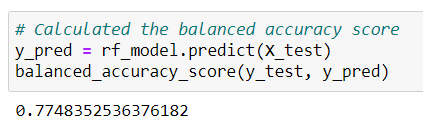
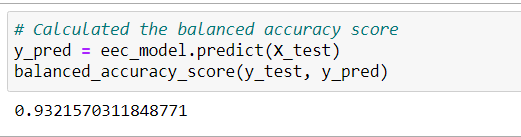
updated files

diff --git a/README.md b/README.md
@@ -12,23 +12,43 @@ To use the below 6 machine learning models to evaluate credit risks for our cust
 ### RandomOverSampler Model balanced accuracy score and imbalanced classification report
 ![](images/random1.PNG)
 ![](images/random2.PNG)
+- Balance accuracy score rounded to the nearest percent is 66%.
+- 
+- 
 
-### ClusterCentroids Model balanced accuracy score and imbalanced classification report
+
+### SMOTE Model balanced accuracy score and imbalanced classification report
 ![](images/smote1.PNG)
 ![](images/smote2.PNG)
+- Balance accuracy score rounded to the nearest percent is 66%.
+- 
+- 
 
-### SMOTE Model balanced accuracy score and imbalanced classification report
+### ClusterCentroids Model balanced accuracy score and imbalanced classification report
 ![](images/cluster1.PNG)
 ![](images/cluster2.PNG)
+- Balance accuracy score rounded to the nearest percent is 54%.
+- 
+- 
 
-### SMOTE Model balanced accuracy score and imbalanced classification report
-![](images/smoteen1.PNG)
-![](images/smoteen2.PNG)
+### SMOTEEN Model balanced accuracy score and imbalanced classification report
+![](images/smoteenn1.PNG)
+![](images/smoteenn2.PNG)
+- Balance accuracy score rounded to the nearest percent  is 68%.
+- 
+- 
 
-### SMOTE Model balanced accuracy score and imbalanced classification report
+### BalancedRandomForestClassifierModel balanced accuracy score and imbalanced classification report
 ![](images/balancedrandom1.PNG)
 ![](images/balancedrandom2.PNG)
+- Balance accuracy score rounded to the nearest percent  is 77%.
+- 
+- 
 
-### SMOTE Model balanced accuracy score and imbalanced classification report
+### EasyEnsembleClassifier Model balanced accuracy score and imbalanced classification report
 ![](images/easyclassifier1.PNG)
 ![](images/easyclassifier2.PNG)
+- Balance accuracy score rounded to the nearest percent is 93%.
+- 
+- 
+## Summary
